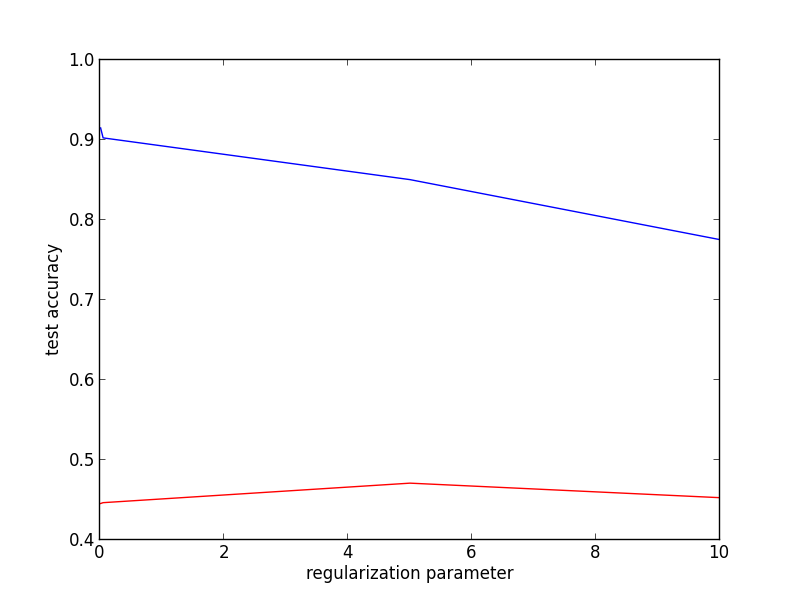
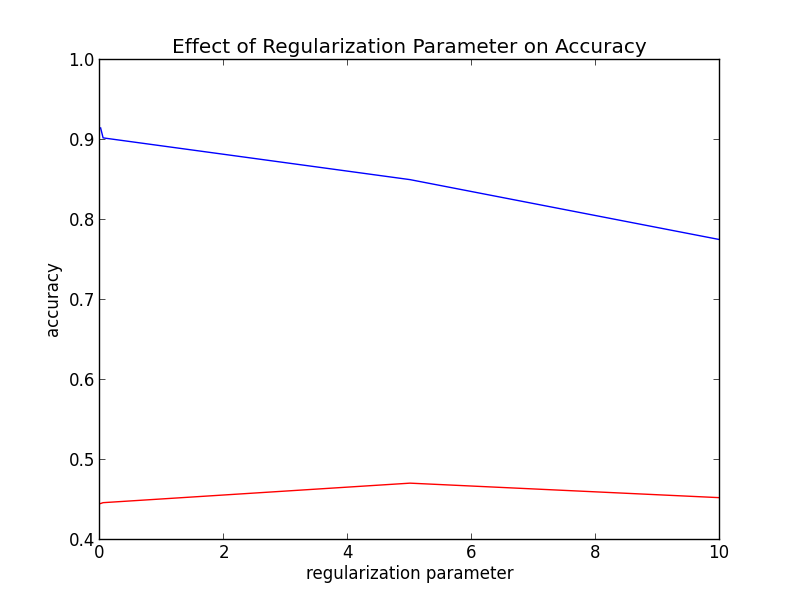
added plotting functionality

Changed region(s): [[0.2188, 0.06, 0.8125, 0.09], [0.0625, 0.42, 0.0938, 0.6]]

diff --git a/plotting/plots.py b/plotting/plots.py
@@ -1,16 +1,16 @@
 import matplotlib.pyplot as plt
 
 #vary regularization
-plt.plot([0.01,0.05,5,10],[0.445627,0.446665,0.471062, 0.452894], 'r', [0.01,0.05,5,10],[0.915109,0.902648,0.850467, 0.775441], 'b')
-plt.xlabel('regularization parameter')
-plt.ylabel('test accuracy')
-plt.title('Effect of Regularization Parameter on Accuracy')
-plt.show()
+# plt.plot([0.01,0.05,5,10],[0.445627,0.446665,0.471062, 0.452894], 'r', [0.01,0.05,5,10],[0.915109,0.902648,0.850467, 0.775441], 'b')
+# plt.xlabel('regularization parameter')
+# plt.ylabel('accuracy')
+# plt.title('Effect of Regularization Parameter on Accuracy')
+# plt.show()
 
 #vary feature map
-# plt.plot([5,7,10,15],[0.378666,0.419154,0.450298, 0.445627], 'r',[5,7,10,15], [0.827882,0.872793,0.907321,0.915109], 'b')
-# plt.xlabel('feature map dimension(number of features is square of this value)')
-# plt.ylabel('accuracy')
-# plt.title('Effect of Feature Map Size on Accuracy')
-# plt.show()
+plt.plot([5,7,10,15],[0.378666,0.419154,0.450298, 0.445627], 'r',[5,7,10,15], [0.827882,0.872793,0.907321,0.915109], 'b')
+plt.xlabel('feature map dimension(number of features is square of this value)')
+plt.ylabel('accuracy')
+plt.title('Effect of Feature Map Size on Accuracy')
+plt.show()
 

diff --git a/src/lenet2/lenet.py b/src/lenet2/lenet.py
@@ -111,6 +111,14 @@ class LeNetConvPoolLayer(object):
         self.params = [self.W, self.b]
 
 
+def plot_validation_data(error_rates):
+    import matplotlib.pyplot as plt
+    plt.plot(range(len(error_rates)),error_rates)
+    plt.title('Accuracy over CNN Training Period')
+    plt.xlabel('iteration number')
+    plt.ylabel('test error rate')
+    plt.show()
+
 def evaluate_lenet5(learning_rate=0.1, n_epochs=250,
                     dataset='mnist.pkl.gz',
                     nkerns=[20, 50], batch_size=500, plot_results=False):
@@ -346,12 +354,4 @@ if __name__ == '__main__':
 
 def experiment(state, channel):
     evaluate_lenet5(state.learning_rate, dataset=state.dataset)
-
-def plot_validation_data(error_rates):
-    import matplotlib.pyplot as plt
-    plt.plot(range(len(error_rates)),error_rates)
-    plt.title('Accuracy over CNN Training Period')
-    plt.xlabel('iteration number')
-    plt.ylabel('test error rate')
-    plt.show()
 
